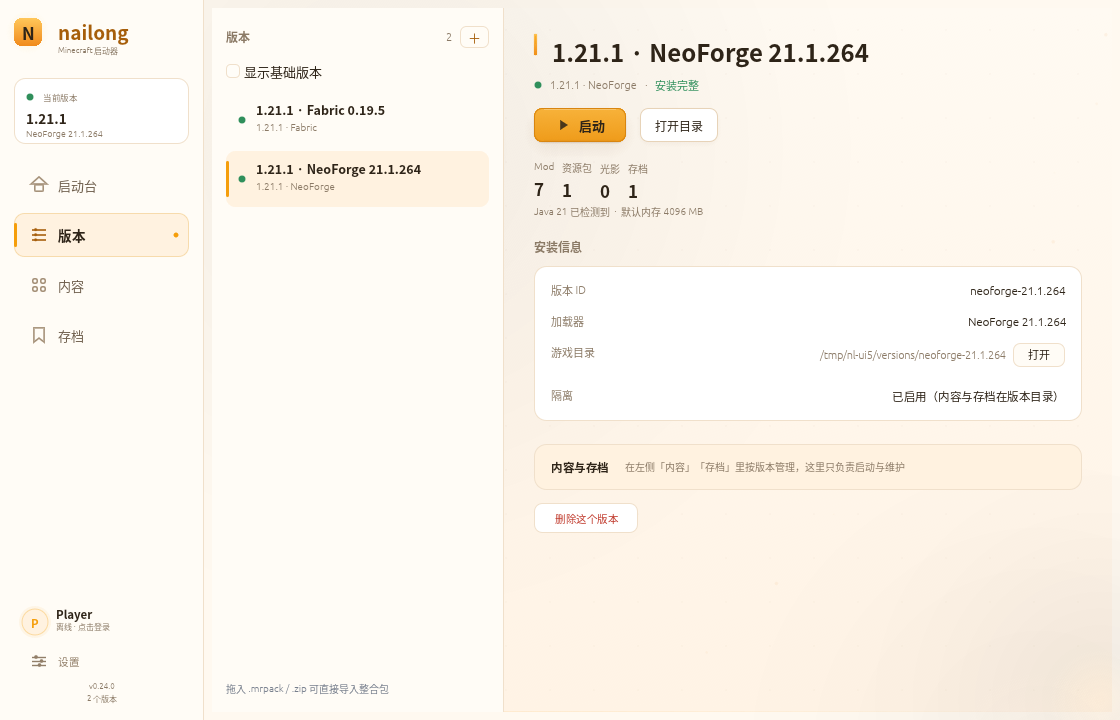
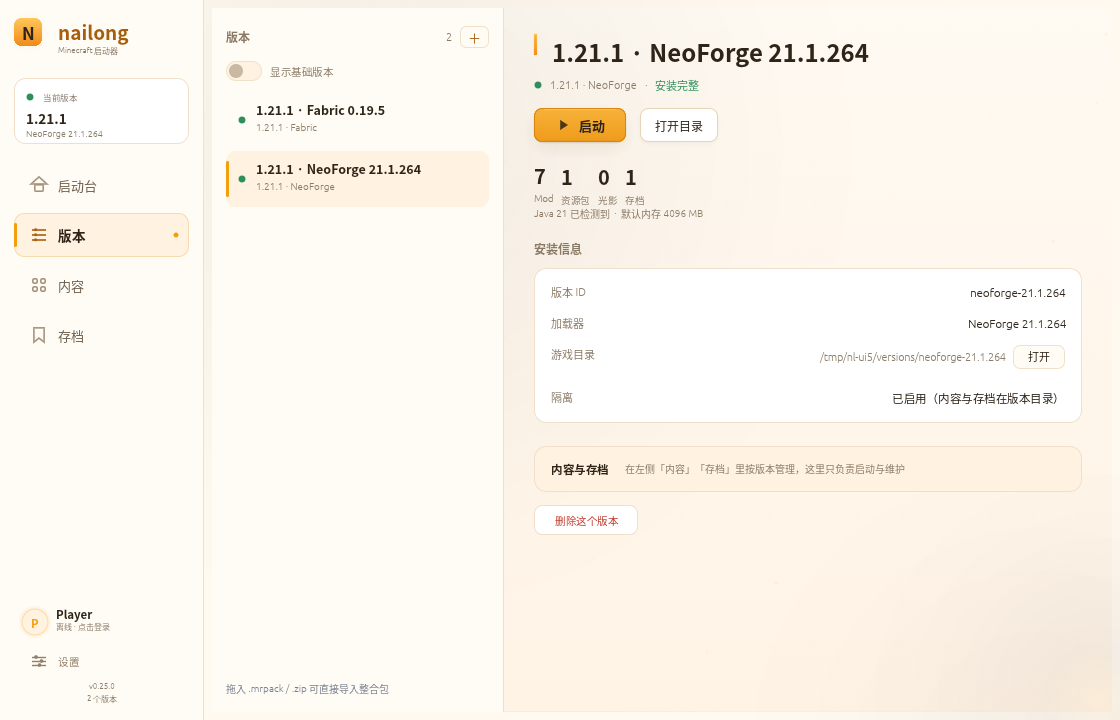
0.25.0: 版本统计层级与开关统一

diff --git a/crates/nailong-ui/src/main.rs b/crates/nailong-ui/src/main.rs
@@ -6486,7 +6486,17 @@ impl App {
             let _ = snapshots::save_config(&self.root, &self.backup_cfg);
         }
         let mut enabled = self.backup_cfg.enabled;
-        if ui.checkbox(&mut enabled, "自动备份").changed() {
+        ui.horizontal(|ui| {
+            if toggle_switch(ui, enabled).clicked() {
+                enabled = !enabled;
+            }
+            ui.label(
+                egui::RichText::new("自动备份")
+                    .size(10.5)
+                    .color(if enabled { INK } else { MUTED }),
+            );
+        });
+        if enabled != self.backup_cfg.enabled {
             self.backup_cfg.enabled = enabled;
             let _ = snapshots::save_config(&self.root, &self.backup_cfg);
         }
@@ -7364,7 +7374,17 @@ impl App {
                 });
                 ui.add_space(10.0);
                 let mut show_base = self.show_base;
-                if ui.checkbox(&mut show_base, "显示基础版本").changed() {
+                ui.horizontal(|ui| {
+                    if toggle_switch(ui, show_base).clicked() {
+                        show_base = !show_base;
+                    }
+                    ui.label(
+                        egui::RichText::new("显示基础版本")
+                            .size(10.5)
+                            .color(if show_base { INK } else { MUTED }),
+                    );
+                });
+                if show_base != self.show_base {
                     self.show_base = show_base;
                     if !show_base {
                         self.ensure_visible_selection();
@@ -8827,16 +8847,15 @@ fn inline_dot(ui: &mut egui::Ui) {
 
 fn stat_cell(ui: &mut egui::Ui, value: usize, label: &str) {
     ui.allocate_ui_with_layout(
-        egui::vec2(96.0, 38.0),
+        egui::vec2(96.0, 42.0),
         egui::Layout::top_down(egui::Align::LEFT),
         |ui| {
-            ui.label(egui::RichText::new(label).size(10.0).color(MUTED));
-            ui.add_space(1.0);
             ui.label(
                 egui::RichText::new(value.to_string())
-                    .size(17.0)
+                    .size(20.0)
                     .family(bold_family()),
             );
+            ui.label(egui::RichText::new(label).size(9.5).color(MUTED));
         },
     );
 }

diff --git a/docs/design/14-implementation-status.md b/docs/design/14-implementation-status.md
@@ -1,7 +1,7 @@
-# 14 · 原型实现状态（0.1 → 0.24.0）
+# 14 · 原型实现状态（0.1 → 0.25.0）
 
 > 日期：2026-10-26
-> 对应发布：GitHub Release `v0.24.0` 的 `nailong.exe`、`nailong_0.24.0_amd64.deb`
+> 对应发布：GitHub Release `v0.25.0` 的 `nailong.exe`、`nailong_0.25.0_amd64.deb`
 > 目的：把「设计稿」和「已经跑起来的代码」分开记账，避免把计划当成已完成。
 
 ## 1. 一句话结论
@@ -41,6 +41,8 @@
 0.10.0 把下载中心从“先搜索”改成“先浏览”：打开就是品类胶囊（每类内容 8–10 个品类）+「热门」「最新」两排卡片；卡片带项目图标、下载量和一个 `+`，点一下即装最新兼容版本和必需前置（`mods::install_project`），装完卡片变「已装」。搜索保留在右上角，结果复用同一套卡片。图标走后台线程拉取、`image` 解码后在 UI 线程建纹理，并做了占位色块兜底。
 
 0.11.0 把品类换成 CurseForge 的真实目录：运行时拉 `/v1/categories`（每种内容一次），用归一化匹配翻成中文标签并映射到 Modrinth 分类 slug，未收录的保留 CurseForge 原名；新增来源切换（全部 / Modrinth / CurseForge），浏览时把 `categoryId` 直接传给 CurseForge 搜索接口。下载路径不变，仍是启动器解析文件地址、校验后落盘。0.11.2 起品类默认只铺 12 个，其余收进「更多品类 +N」，避免 CurseForge 三四十个分类把浏览页顶满。
+
+0.25.0 统一版本页和存档页的控件层级：版本统计从“小标签在上、数字在下”改成 20 px 粗体数字在上、9.5 px 标签在下；自动备份和「显示基础版本」从默认 egui checkbox 换成内容页同一套暖色开关，开关状态和文字颜色一起变化；存档工具条按“自动备份 → 间隔 → 保留份数 → 备份全部 → 清理”从左到右排。没有新增功能，只把已经存在的页面读起来更顺。
 
 0.24.0 把失败和关闭路径也当成界面的一部分：登录失败不再把一句错误丢在首页背景里，而是单独弹「登录没有完成」，给「重新登录 / 关闭」；原始 AADSTS 只进设置日志。Esc 现在能关闭设置、账户、恢复点、登录等待和登录失败弹窗；内容错误不再显示带完整 URL 的裸错误，网络失败时给「内容没有加载出来」居中卡和「重新加载」，已有列表刷新失败只在顶部给重载条。
 
@@ -114,7 +116,7 @@
 | 大文件分段下载 | `core::http` | 完成 | client jar 4 段并行、段续传、源回退 |
 | 重复安装快速路径 | `core::install::forge` / `neoforge` | 完成 | health 通过则 0 下载、0 processor |
 | Windows 交叉编译 | `x86_64-pc-windows-gnu` | 通过 | 无 MinGW DLL 依赖，仅系统 DLL |
-| 发布包 | GitHub Release `v0.24.0` | 完成（CI 构建） | 单 exe 约 8 MB / deb 约 3.3 MB |
+| 发布包 | GitHub Release `v0.25.0` | 完成（CI 构建） | 单 exe 约 8 MB / deb 约 3.3 MB |
 
 ### 2.1 实测记录
 

diff --git a/README.en.md b/README.en.md
@@ -8,7 +8,7 @@ A small, native Minecraft: Java Edition launcher written in Rust. Windows ships 
 
 [简体中文](README.md) | **English**
 
-> Current version: **0.24.0** (preview)
+> Current version: **0.25.0** (preview)
 >
 > Goals: small binaries, few dependencies, visible install progress, and a repair path after interruption. See [implementation status](docs/design/14-implementation-status.md) for exact boundaries.
 
@@ -26,6 +26,8 @@ nailong tries to do one thing simply:
 It is not a universal launcher, and it is not 1.0 yet. What works and what does not is laid out below.
 
 ## Interface
+
+0.25 unifies the controls that were still default egui: version stats now put a 20 px bold number above a small muted label, and Auto Backup / Show Base Versions use the same warm 36×20 switch as the content list instead of checkboxes. The Saves toolbar reads left-to-right as auto-backup → interval → keep → back up all → prune. No new features, just a quieter, more consistent page.
 
 0.24 treats failure and dismissal as part of the interface. A failed login gets its own “login did not finish” result card with Retry and Close instead of dropping a raw AADSTS line behind the main window. Escape now closes Settings, Account, Restore Points, the login wait and the login-error card; content errors no longer expose raw URLs: an empty result shows a centered “content did not load” card with Reload, while a failed refresh keeps the list and adds a retry bar. Raw errors stay in the Settings log.
 
@@ -120,7 +122,7 @@ Drag a `.mrpack` or `.zip` into the window to start an import. A single mod `.ja
 | Platform | File | Size | Requirements |
 |---|---|---:|---|
 | Windows x64 | [nailong.exe](https://github.com/dkjsiogu/nailong/releases/latest/download/nailong.exe) | ~8 MB | Windows 10/11, Java 21 |
-| Linux x64 (deb) | [nailong_0.24.0_amd64.deb](https://github.com/dkjsiogu/nailong/releases/latest/download/nailong_0.24.0_amd64.deb) | ~3.3 MB | Ubuntu 24.04+ / glibc ≥ 2.39, Java 21 |
+| Linux x64 (deb) | [nailong_0.25.0_amd64.deb](https://github.com/dkjsiogu/nailong/releases/latest/download/nailong_0.25.0_amd64.deb) | ~3.3 MB | Ubuntu 24.04+ / glibc ≥ 2.39, Java 21 |
 
 Checksums: [SHA256SUMS](https://github.com/dkjsiogu/nailong/releases/latest/download/SHA256SUMS).
 

diff --git a/README.md b/README.md
@@ -8,7 +8,7 @@
 
 **简体中文** | [English](README.en.md)
 
-> 当前版本：**0.24.0**（预览版）
+> 当前版本：**0.25.0**（预览版）
 >
 > 目标：小体积、少依赖、安装过程可见、中断可补。功能边界见 [实现状态](docs/design/14-implementation-status.md)。
 
@@ -26,6 +26,8 @@ nailong 的思路很直：
 它不是“万能启动器”，也还不是 1.0。能做和不能做的，下文列清楚了。
 
 ## 界面
+
+0.25 继续收页面里的控件：版本页统计改成大数字在上、标签在下；自动备份和「显示基础版本」不再用默认 checkbox，换成内容页同一套暖色开关；存档工具条按“自动备份 → 间隔 → 保留份数 → 备份全部 → 清理”排顺。没有加功能，只把已有的页面读起来更顺。
 
 0.24 把失败和关闭也当成界面：登录失败弹独立的「登录没有完成」结果卡，给「重新登录 / 关闭」，不再把一句 AADSTS 丢在首页背景里；设置、账户、恢复点、登录等待、登录失败、安装确认都支持 Esc 关闭；内容错误不再显示带完整 URL 的裸错误：没有内容时给「内容没有加载出来」居中卡，已有列表刷新失败只在顶部给重载条。原始错误只进设置日志。
 
@@ -121,7 +123,7 @@ nailong 的思路很直：
 | 平台 | 文件 | 大小 | 要求 |
 |---|---|---:|---|
 | Windows x64 | [nailong.exe](https://github.com/dkjsiogu/nailong/releases/latest/download/nailong.exe) | 约 8 MB | Windows 10/11，Java 21 |
-| Linux x64 (deb) | [nailong_0.24.0_amd64.deb](https://github.com/dkjsiogu/nailong/releases/latest/download/nailong_0.24.0_amd64.deb) | 约 3.3 MB | Ubuntu 24.04+ / glibc ≥ 2.39，Java 21 |
+| Linux x64 (deb) | [nailong_0.25.0_amd64.deb](https://github.com/dkjsiogu/nailong/releases/latest/download/nailong_0.25.0_amd64.deb) | 约 3.3 MB | Ubuntu 24.04+ / glibc ≥ 2.39，Java 21 |
 
 校验值：[SHA256SUMS](https://github.com/dkjsiogu/nailong/releases/latest/download/SHA256SUMS)。
 
@@ -138,7 +140,7 @@ nailong 的思路很直：
 ### Linux（Debian / Ubuntu）
 
 ```bash
-sudo apt install ./nailong_0.24.0_amd64.deb
+sudo apt install ./nailong_0.25.0_amd64.deb
 nailong
 ```
 

diff --git a/docs/design/15-ui-design-system.md b/docs/design/15-ui-design-system.md
@@ -1,4 +1,4 @@
-# 15 · 界面设计系统（0.24.0）
+# 15 · 界面设计系统（0.25.0）
 
 > 适用于 `crates/nailong-ui` 的实际实现。目标：**玩家视角的信息架构、黄橙白浅色主题、每件事只有一个入口、每个页面只有一个主操作**。
 
@@ -116,6 +116,12 @@
 - 禁用：`#F8EEE0` 底 + `LINE` 描边 + 暖灰粗体字，尺寸不变，避免布局跳动。
 
 ![主按钮细节：左为 0.18.0，右为 0.18.1](../screenshots/button-detail.png)
+
+### 开关
+统一用 36×20 的暖色滑块：关闭是 `SURFACE2` 底 + 暖灰圆点，开启是 `ACCENT` 底 + 奶油白圆点，点击整块可切换。内容启用、自动备份、显示基础版本都用它，不再出现默认 checkbox。
+
+### 统计格
+版本页的四项统计：20 px 粗体数字在上，9.5 px `MUTED` 标签在下；不再把标签放数字上面，避免第一眼读到的是分类而不是数量。
 
 ### 次按钮
 白底、`#E7D3B8` 1 px 描边、`0 2 7` 的极浅暖棕投影；悬停底色变 `#FFF8EC`、描边转 `ACCENT_HI`，按下底色转 `SURFACE2` 并下沉 0.5 px。文字用常规字重和 `INK`，不抢主按钮。用于「内容管理」「打开目录」「重新扫描」「检查更新」「选择文件」以及分页/返回等次级动作。

diff --git a/docs/product/00-brief.md b/docs/product/00-brief.md
@@ -1,6 +1,6 @@
 # nailong 产品 brief
 
-> 状态：0.24。所有界面与功能取舍先回到这一页，再谈实现。
+> 状态：0.25。所有界面与功能取舍先回到这一页，再谈实现。
 
 ## 1. 一句话
 
@@ -74,8 +74,9 @@
 4. **0.22**：加载器状态恢复（版本 JSON 与补丁 jar）、重装加载器前自动留点。已完成默认实例覆盖；共享 libraries 不复制。
 5. **0.23**：登录（Windows URL）、取消状态、切页卡顿、错误文案与加载态。已完成代码与 Linux 冒烟；Windows 真机待补。
 6. **0.24**：登录失败结果卡、Esc 关闭、内容错误态重载。已完成代码与截图；Windows 真机仍待补。
-7. **0.25**：更新确认与更新说明、性能预算、可访问性、Windows 实机。
-8. 之后：内容策展、正式 1.0 评估。
+7. **0.25**：版本页统计层级、存档/版本页开关统一。已完成。
+8. **0.26**：更新确认与更新说明、性能预算、可访问性、Windows 实机。
+9. 之后：内容策展、正式 1.0 评估。
 
 ## 10. 一句话验收
 
